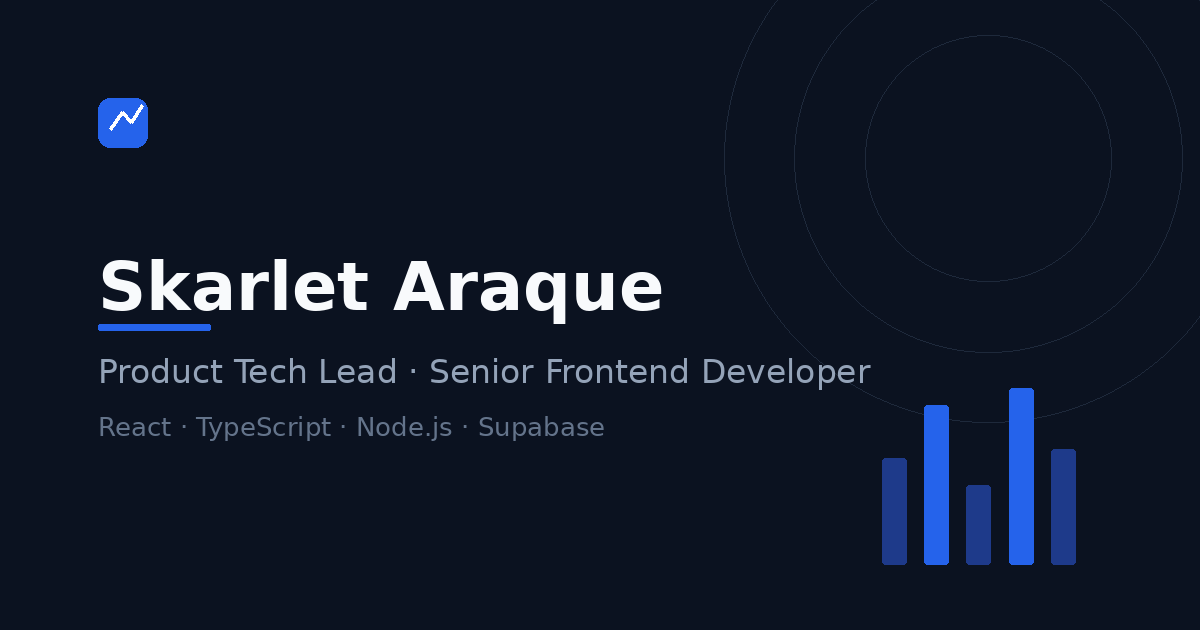
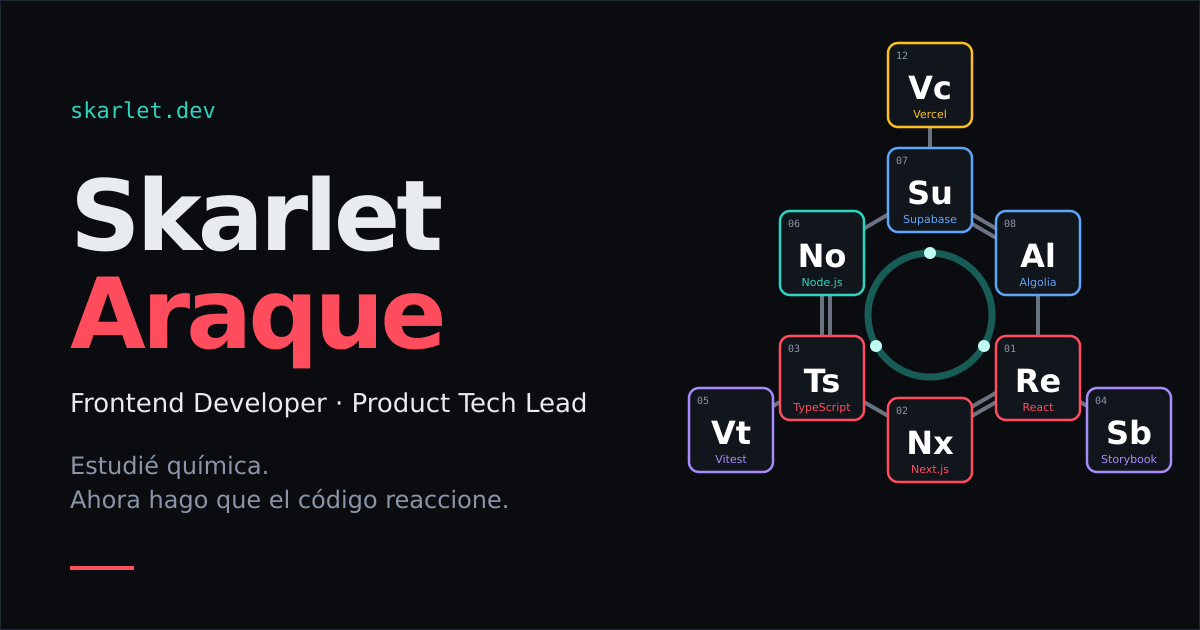
feat(portfolio): add OG social image and structured metadata
Add a generated 1200x630 OG/Twitter preview image, og:image size/alt
and og:locale tags, and Person JSON-LD, so link previews and search
snippets carry real metadata instead of relying on defaults.

diff --git a/index.html b/index.html
@@ -8,15 +8,30 @@
     <link rel="canonical" href="%seo.url%" />
 
     <meta property="og:type" content="website" />
+    <meta property="og:locale" content="%seo.locale%" />
     <meta property="og:url" content="%seo.url%" />
     <meta property="og:title" content="%seo.title%" />
     <meta property="og:description" content="%seo.description%" />
     <meta property="og:image" content="%seo.imageUrl%" />
+    <meta property="og:image:width" content="%seo.imageWidth%" />
+    <meta property="og:image:height" content="%seo.imageHeight%" />
+    <meta property="og:image:alt" content="%seo.imageAlt%" />
 
     <meta name="twitter:card" content="summary_large_image" />
     <meta name="twitter:title" content="%seo.title%" />
     <meta name="twitter:description" content="%seo.description%" />
     <meta name="twitter:image" content="%seo.imageUrl%" />
+
+    <script type="application/ld+json">
+      {
+        "@context": "https://schema.org",
+        "@type": "Person",
+        "name": "Skarlet Araque",
+        "jobTitle": "Frontend Developer",
+        "url": "%seo.url%",
+        "sameAs": ["https://linkedin.com/in/skarlet-araque", "https://github.com/SkarletA"]
+      }
+    </script>
 
     <link rel="preconnect" href="https://fonts.googleapis.com" />
     <link rel="preconnect" href="https://fonts.gstatic.com" crossorigin />

diff --git a/src/data/seo.ts b/src/data/seo.ts
@@ -5,9 +5,13 @@
 export const siteUrl = 'https://portafolio-skarlet-a.vercel.app'
 
 export const portfolioSeo = {
-  title: 'Skarlet Araque — Building scalable, accessible, user-centered products',
+  title: 'Skarlet Araque · Frontend Developer y Product Tech Lead',
   description:
-    'Frontend engineer and product-minded builder with a background in e-commerce and fintech. Explore case studies, including Finora, a full-stack personal finance app.',
+    'Frontend Developer y Product Tech Lead con 4 años en e-commerce. Estudié química y ahora hago que el código reaccione. Conoce mis proyectos.',
   url: `${siteUrl}/`,
   imageUrl: `${siteUrl}/og-image.png`,
+  imageWidth: '1200',
+  imageHeight: '630',
+  imageAlt: 'Skarlet Araque, Frontend Developer y Product Tech Lead, con una molécula de tecnologías',
+  locale: 'es_MX',
 }
